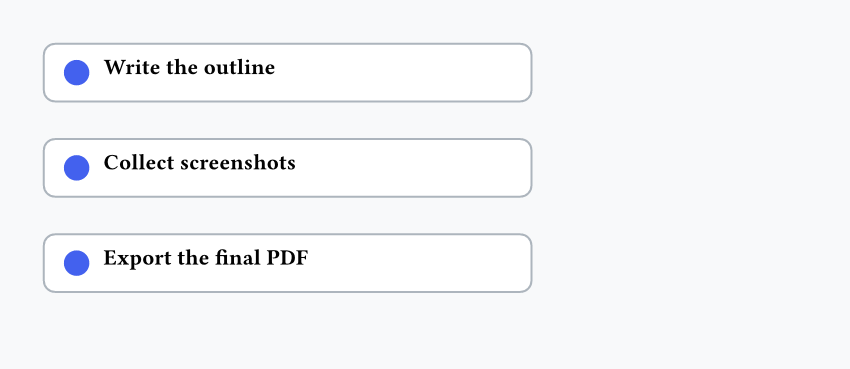
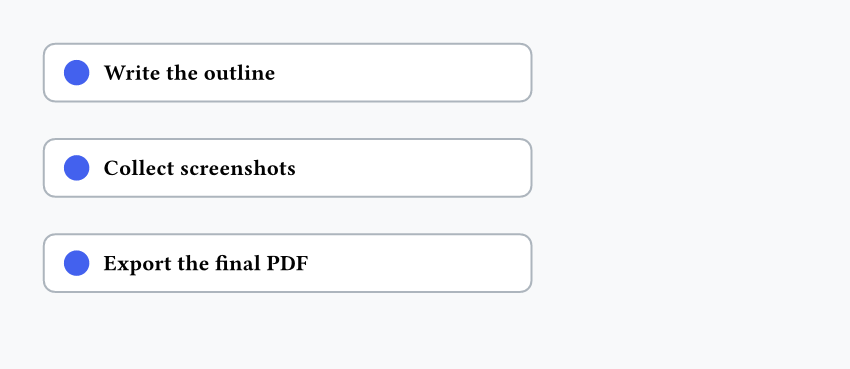
deploy: 3093b8bfff94269a46d08e5d627b58b0edf1f659

Changed region(s): [[0.1224, 0.6558, 0.3671, 0.7453], [0.1224, 0.1491, 0.3365, 0.2385], [0.1224, 0.4173, 0.3671, 0.477]]

diff --git a/crash-course/exercises-2/index.html b/crash-course/exercises-2/index.html
@@ -1416,12 +1416,12 @@
 </span><span id="__span-4-5"><a id="__codelineno-4-5" name="__codelineno-4-5" href="#__codelineno-4-5"></a><span class="w">    </span><span class="nv">radius</span><span class="p">:</span><span class="w"> </span><span class="m">6</span><span class="kr">pt</span><span class="p">,</span>
 </span><span id="__span-4-6"><a id="__codelineno-4-6" name="__codelineno-4-6" href="#__codelineno-4-6"></a><span class="w">    </span><span class="nv">inset</span><span class="p">:</span><span class="w"> </span><span class="p">(</span><span class="nv">x</span><span class="p">:</span><span class="w"> </span><span class="m">10</span><span class="kr">pt</span><span class="p">,</span><span class="w"> </span><span class="nv">y</span><span class="p">:</span><span class="w"> </span><span class="m">8</span><span class="kr">pt</span><span class="p">),</span>
 </span><span id="__span-4-7"><a id="__codelineno-4-7" name="__codelineno-4-7" href="#__codelineno-4-7"></a><span class="w">    </span><span class="nv">width</span><span class="p">:</span><span class="w"> </span><span class="m">8.6</span><span class="kr">cm</span><span class="p">,</span>
-</span><span id="__span-4-8"><a id="__codelineno-4-8" name="__codelineno-4-8" href="#__codelineno-4-8"></a><span class="w">    </span><span class="nf">stack</span><span class="p">(</span>
+</span><span id="__span-4-8"><a id="__codelineno-4-8" name="__codelineno-4-8" href="#__codelineno-4-8"></a><span class="w">    </span><span class="nf">align</span><span class="p">(</span><span class="nv">horizon</span><span class="p">,</span><span class="w"> </span><span class="nf">stack</span><span class="p">(</span>
 </span><span id="__span-4-9"><a id="__codelineno-4-9" name="__codelineno-4-9" href="#__codelineno-4-9"></a><span class="w">      </span><span class="nv">dir</span><span class="p">:</span><span class="w"> </span><span class="nv">ltr</span><span class="p">,</span>
 </span><span id="__span-4-10"><a id="__codelineno-4-10" name="__codelineno-4-10" href="#__codelineno-4-10"></a><span class="w">      </span><span class="nv">spacing</span><span class="p">:</span><span class="w"> </span><span class="m">0.25</span><span class="kr">cm</span><span class="p">,</span>
 </span><span id="__span-4-11"><a id="__codelineno-4-11" name="__codelineno-4-11" href="#__codelineno-4-11"></a><span class="w">      </span><span class="nf">circle</span><span class="p">(</span><span class="nv">fill</span><span class="p">:</span><span class="w"> </span><span class="nf">rgb</span><span class="p">(</span><span class="s2">&quot;#4361ee&quot;</span><span class="p">),</span><span class="w"> </span><span class="nv">width</span><span class="p">:</span><span class="w"> </span><span class="m">0.45</span><span class="kr">cm</span><span class="p">),</span>
 </span><span id="__span-4-12"><a id="__codelineno-4-12" name="__codelineno-4-12" href="#__codelineno-4-12"></a><span class="w">      </span><span class="nf">text</span><span class="p">(</span><span class="nv">weight</span><span class="p">:</span><span class="w"> </span><span class="s2">&quot;bold&quot;</span><span class="p">,</span><span class="w"> </span><span class="nv">s</span><span class="p">),</span>
-</span><span id="__span-4-13"><a id="__codelineno-4-13" name="__codelineno-4-13" href="#__codelineno-4-13"></a><span class="w">    </span><span class="p">),</span>
+</span><span id="__span-4-13"><a id="__codelineno-4-13" name="__codelineno-4-13" href="#__codelineno-4-13"></a><span class="w">    </span><span class="p">)),</span>
 </span><span id="__span-4-14"><a id="__codelineno-4-14" name="__codelineno-4-14" href="#__codelineno-4-14"></a><span class="w">  </span><span class="p">)</span>
 </span><span id="__span-4-15"><a id="__codelineno-4-15" name="__codelineno-4-15" href="#__codelineno-4-15"></a><span class="w">  </span><span class="nf">v</span><span class="p">(</span><span class="m">0.2</span><span class="kr">cm</span><span class="p">)</span>
 </span><span id="__span-4-16"><a id="__codelineno-4-16" name="__codelineno-4-16" href="#__codelineno-4-16"></a><span class="p">}</span>
